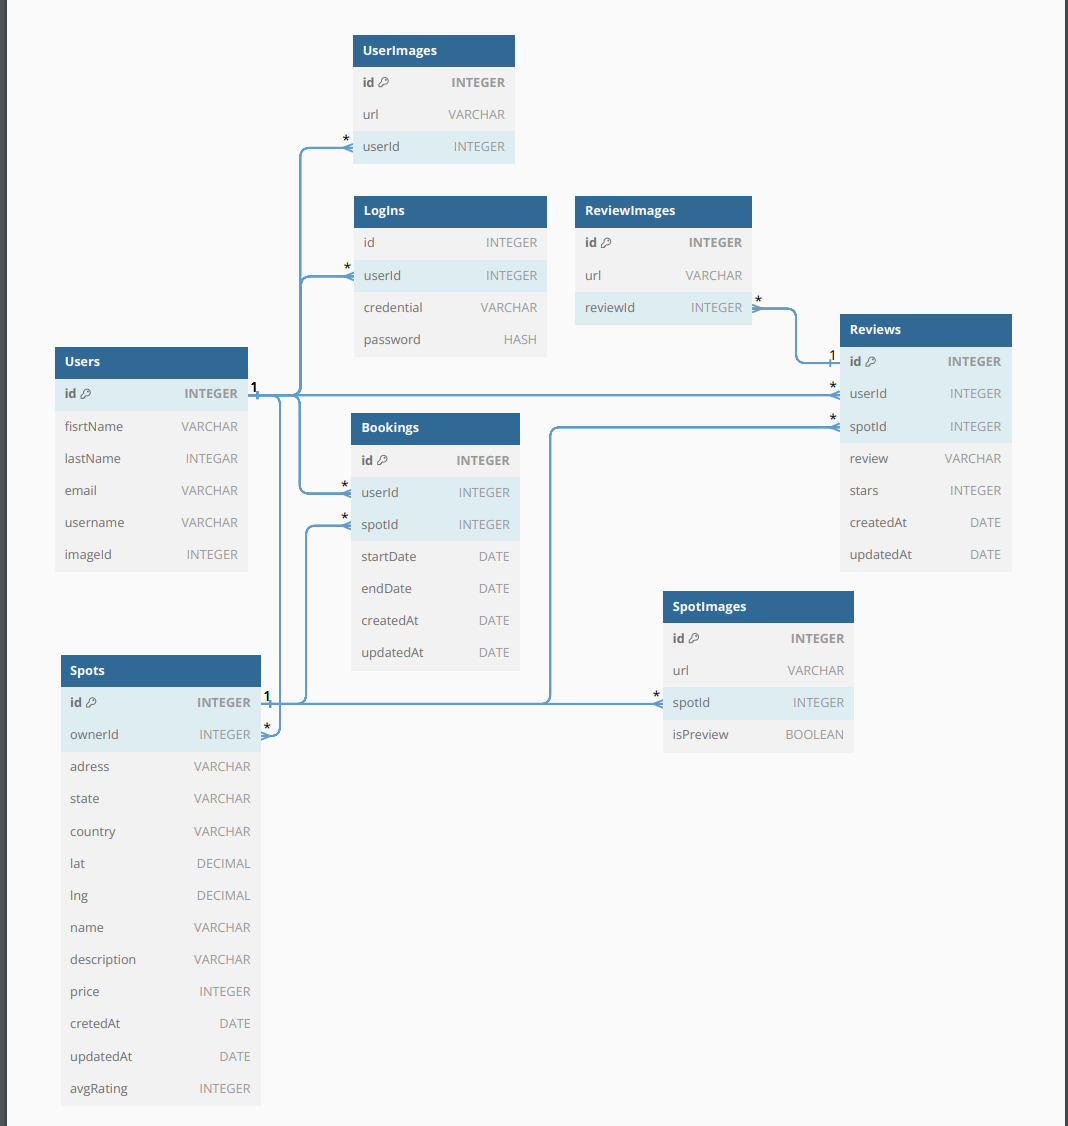
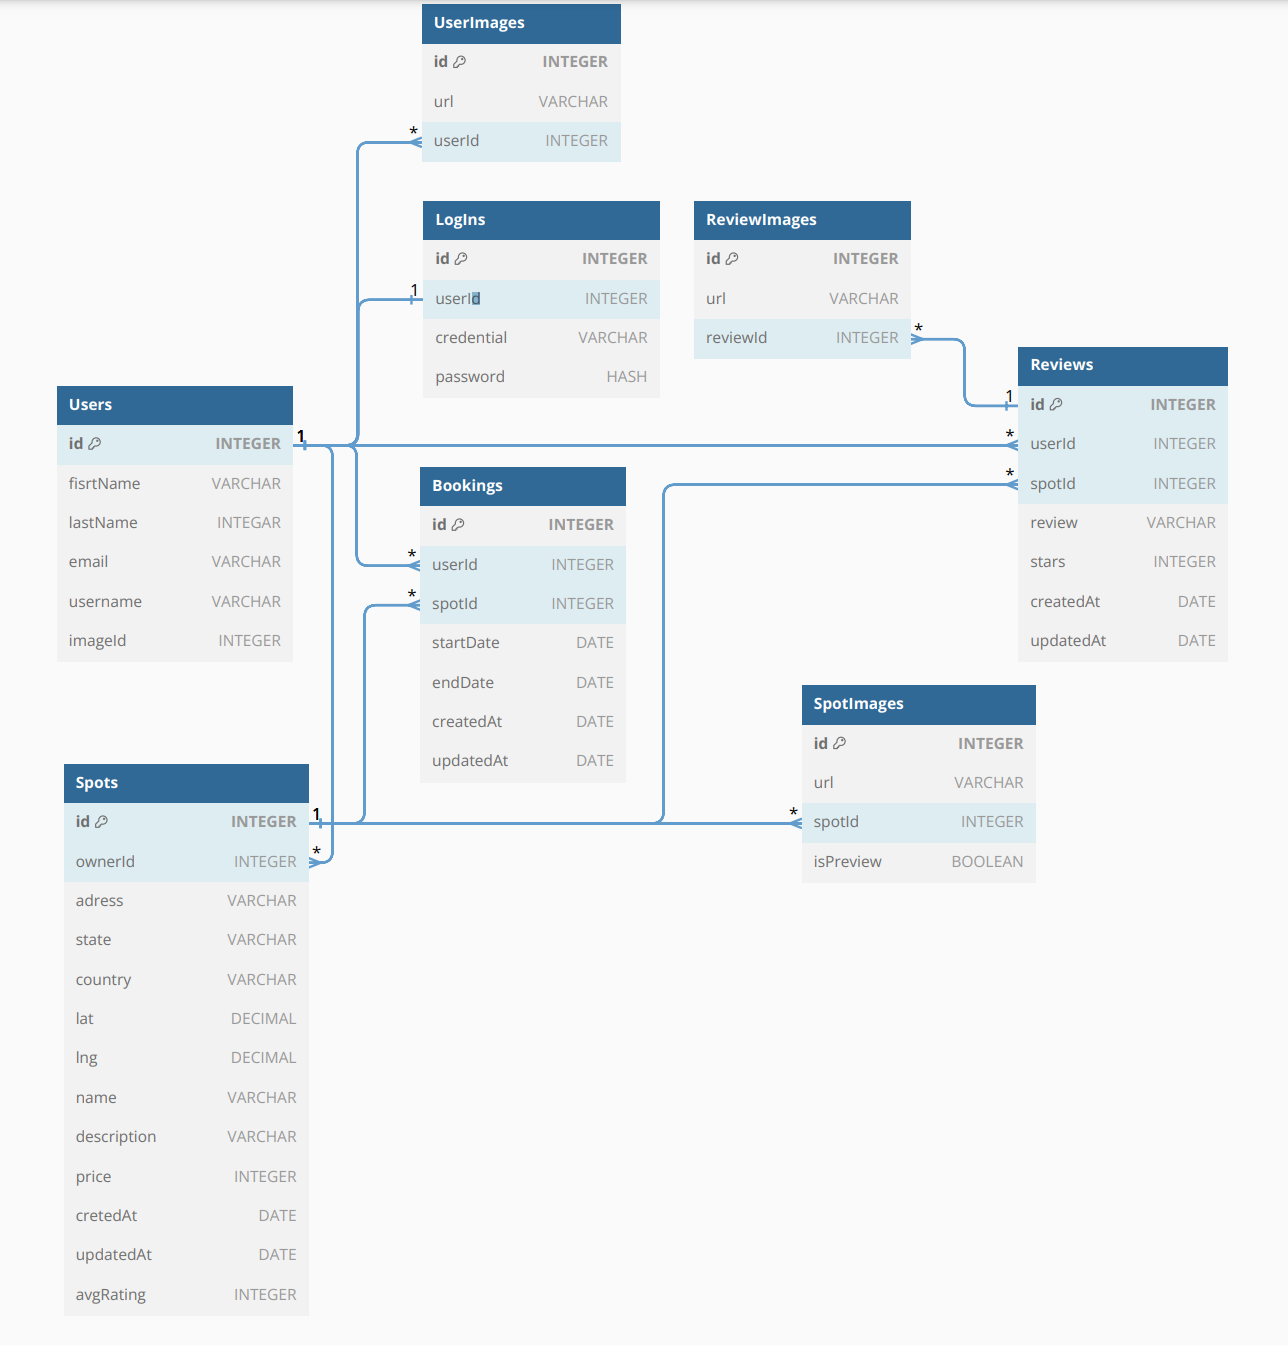
done after being checked, notes added

diff --git a/notes.js b/notes.js
@@ -1,0 +1,16 @@
+//!can implement the LogIn model but hold off on coding for react 
+//!can remove login tables, will be using cookies for this in the future
+//!for get user --> /session or /me or /current
+//!for logIn a user /sessions 
+//!sign post direct into /users 
+//!ctrl f for house replaces all with spot
+//!sessions/spots --potentially ok as is
+//!reviews by spot id - /spots/:spotid/reviews 
+//!reviews for spot -- /spot/:spotid/reviews
+//!add image reviews has been created and associated with spot already so can do /reviews/:reviewId/images
+//!for edit a remove can romve house since it's already associated 
+//!delete review same as above
+//!bookings switch to sessions to stay consistent 
+//!get bookings for spot -- /spot/spotid/bookings 
+//!edit booking book/bookngid already associated
+//images create a new router for each type of image /api/spot-images/:imageId 

diff --git a/API-docs-AirBnB.md b/API-docs-AirBnB.md
@@ -50,7 +50,7 @@ Returns the information about the current user that is logged in.
 * Require Authentication: true
 * Request
   * Method: GET
-  * URL: api/myProfile
+  * URL: api/session
   * Body: none
 
 * Successful Response when there is a logged in user
@@ -91,7 +91,7 @@ information.
 * Require Authentication: false
 * Request
   * Method: POST
-  * URL: api/users/logIn
+  * URL: api/session
   * Headers:
     * Content-Type: application/json
   * Body:
@@ -157,7 +157,7 @@ user's information.
 * Require Authentication: false
 * Request
   * Method: POST
-  * URL: /api/users/signUp
+  * URL: /users
   * Headers:
     * Content-Type: application/json
   * Body:
@@ -247,7 +247,7 @@ Returns all the spots.
 * Require Authentication: false
 * Request
   * Method: GET
-  * URL: /api/houses
+  * URL: /api/spots
   * Body: none
 
 * Successful Response
@@ -287,7 +287,7 @@ Returns all the spots owned (created) by the current user.
 * Require Authentication: true
 * Request
   * Method: Get
-  * URL: /api/myProfile/houses
+  * URL: /api/session/spots
   * Body: none
 
 * Successful Response
@@ -327,7 +327,7 @@ Returns the details of a spot specified by its id.
 * Require Authentication: false
 * Request
   * Method: GET
-  * URL: /api/houses/:houseId
+  * URL: /api/spots/:spotId
   * Body: none
 
 * Successful Response
@@ -392,7 +392,7 @@ Creates and returns a new spot.
 * Require Authentication: true
 * Request
   * Method: POST
-  * URL: /api/houses
+  * URL: /api/spots
   * Headers:
     * Content-Type: application/json
   * Body:
@@ -466,7 +466,7 @@ Create and return a new image for a spot specified by id.
 * Require proper authorization: Spot must belong to the current user
 * Request
   * Method: POST
-  * URL: /api/houses/:houseId/images
+  * URL: /api/spots/:spotId/images
   * Headers:
     * Content-Type: application/json
   * Body:
@@ -512,7 +512,7 @@ Updates and returns an existing spot.
 * Require proper authorization: Spot must belong to the current user
 * Request
   * Method: PUT
-  * URL: /api/houses/:houseId
+  * URL: /api/spots/:spotId
   * Headers:
     * Content-Type: application/json
   * Body:
@@ -598,7 +598,7 @@ Deletes an existing spot.
 * Require proper authorization: Spot must belong to the current user
 * Request
   * Method: DELETE
-  * URL: /api/houses/:houseId
+  * URL: /api/spots/:spotId
   * Body: none
 
 * Successful Response
@@ -634,7 +634,7 @@ Returns all the reviews written by the current user.
 * Require Authentication: true
 * Request
   * Method: GET 
-  * URL: /api/myProfile/reviews
+  * URL: /api/session/reviews
   * Body: none
 
 * Successful Response
@@ -690,7 +690,7 @@ Returns all the reviews that belong to a spot specified by id.
 * Require Authentication: false
 * Request
   * Method: GET
-  * URL: api/reviews/:houseId
+  * URL: api/spots/:spotId/reviews
   * Body: none
 
 * Successful Response
@@ -745,7 +745,7 @@ Create and return a new review for a spot specified by id.
 * Require Authentication: true
 * Request
   * Method: POST
-  * URL: /api/reviews/:houseId/:reviewId
+  * URL: /api/spots/:spotId/reviews
   * Headers:
     * Content-Type: application/json
   * Body:
@@ -823,7 +823,7 @@ Create and return a new image for a review specified by id.
 * Require proper authorization: Review must belong to the current user
 * Request
   * Method: POST
-  * URL: /api/reviews/:houseId/:reviewId/images
+  * URL: /api/reviews/:reviewId/images
   * Headers:
     * Content-Type: application/json
   * Body:
@@ -880,7 +880,7 @@ Update and return an existing review.
 * Require proper authorization: Review must belong to the current user
 * Request
   * Method: PUT
-  * URL: /api/reviews/:houseId/:reviewId
+  * URL: /api/reviews/:reviewId
   * Headers:
     * Content-Type: application/json
   * Body:
@@ -946,7 +946,7 @@ Delete an existing review.
 * Require proper authorization: Review must belong to the current user
 * Request
   * Method: DELETE
-  * URL: /api/reviews/:houseId/:reviewId
+  * URL: /api/reviews/:reviewId
   * Body: none
 
 * Successful Response
@@ -982,7 +982,7 @@ Return all the bookings that the current user has made.
 * Require Authentication: true
 * Request
   * Method: GET
-  * URL: /api/myProfile/bookings
+  * URL: /api/session/bookings
   * Body: none
 
 * Successful Response
@@ -1027,7 +1027,7 @@ Return all the bookings for a spot specified by id.
 * Require Authentication: true
 * Request
   * : GET
-  * URL: /api/bookings/:houseId
+  * URL: /api/spots/:spotId/bookings
   * Body: none
 
 * Successful Response: If you ARE NOT the owner of the spot.
@@ -1095,8 +1095,7 @@ Create and return a new booking from a spot specified by id.
 * Require proper authorization: Spot must NOT belong to the current user
 * Request
   * Method: POST
-  * URL: /api/bookings/:houseId
-  * Body:
+  * URL: /api/spots/:spotId/bookings/
 
     ```json
     {
@@ -1174,7 +1173,7 @@ Update and return an existing booking.
 * Require proper authorization: Booking must belong to the current user
 * Request
   * Method: PUT
-  * URL: /api/bookings/:houseId/:bookingId
+  * URL: /api/bookings/:bookingId
   * Headers:
     * Content-Type: application/json
   * Body:
@@ -1268,7 +1267,7 @@ Delete an existing booking.
   Spot must belong to the current user
 * Request
   * Method: DELETE
-  * URL: /api/bookings/:houseId/:bookingId
+  * URL: /api/bookings/:bookingId
   * Body: none
 
 * Successful Response
@@ -1317,7 +1316,7 @@ Delete an existing image for a Spot.
 * Require proper authorization: Spot must belong to the current user
 * Request
   * Method: DELETE
-  * URL: /api/images/:houseId/:imageId
+  * URL: /api/spot-images/:imageId
   * Body: none
 
 * Successful Response
@@ -1352,7 +1351,7 @@ Delete an existing image for a Review.
 * Require proper authorization: Review must belong to the current user
 * Request
   * Method: DELETE 
-  * URL: /api/reviews/:reviewId/images/:imageId
+  * URL: /api/review-images/:imageId
   * Body: none
 
 * Successful Response
@@ -1386,7 +1385,7 @@ Return spots filtered by query parameters.
 * Require Authentication: false
 * Request
   * Method: GET
-  * URL: /api/houses?page=1&size=20&minLat=&maxLat=&minLng=&maxLng=&minPrice=&maxPrice=
+  * URL: /api/spots?page=1&size=20&minLat=&maxLat=&minLng=&maxLng=&minPrice=&maxPrice=
   * Query Parameters
     * page: integer, minimum: 1, maximum: 10, default: 1
     * size: integer, minimum: 1, maximum: 20, default: 20
